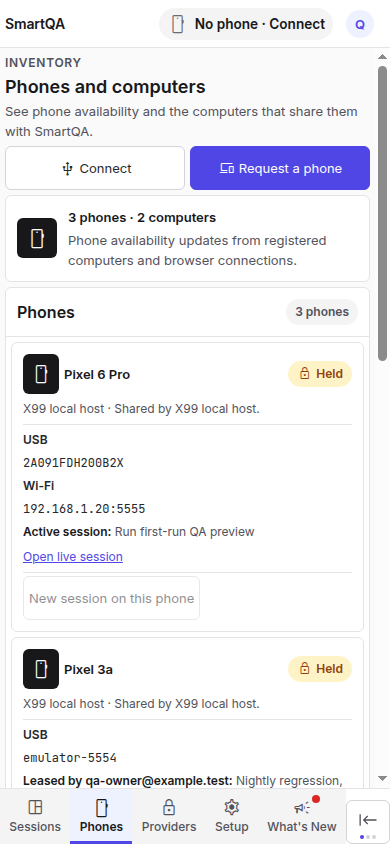
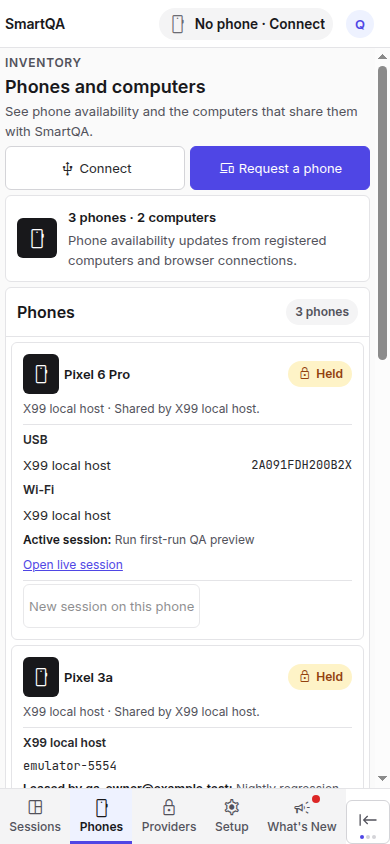
fix(smartqa): report phone connections through the host-agent contract, prefer Ready endpoint (CHE-2377)

Changed region(s): [[0.0308, 0.5237, 0.9231, 0.955], [0.6462, 0.5237, 0.8923, 0.5545]]

diff --git a/apps/showcase_ui/src/app/pages/phones/phones.component.ts b/apps/showcase_ui/src/app/pages/phones/phones.component.ts
@@ -9,7 +9,6 @@ import { SystemService } from '../../services/system.service';
 import { UsbDeviceRelayService } from '../../services/usb-device-relay.service';
 import { WorkspacePhoneService } from '../../services/workspace-phone.service';
 import { deviceChipView } from '../../utils/device-chip.util';
-import { serialShape } from '../../utils/device-label.util';
 
 type PhoneStatus = 'Held' | 'Available' | 'Disconnected' | 'Needs attention';
 
@@ -23,6 +22,9 @@ const key = (device: RegistryDevice) => `${device.computer_id}:${device.serial}`
 
 /** One phone and every way it is connected: the server names them with one device id. */
 interface PhoneGroup { device: RegistryDevice; endpoints: RegistryDevice[]; }
+/** One way a phone is connected; `serial` is set on the first row of a device only. */
+interface PhoneEndpoint { id: string; label: string; via: string | null; serial: string | null; }
+const STATE_RANK = { 'Ready': 0, 'Needs attention': 1, 'Offline': 2 } as const;
 
 @Component({
   selector: 'app-phones',
@@ -95,10 +97,11 @@ interface PhoneGroup { device: RegistryDevice; endpoints: RegistryDevice[]; }
                   <div class="phone-details">
                     <p>{{ v.source }}<span aria-hidden="true"> · </span><span>{{ v.detail }}</span></p>
                     <div class="endpoint-list" aria-label="Phone connections">
-                      @for (endpoint of group.endpoints; track key(endpoint)) {
+                      @for (endpoint of endpointsOf(group); track endpoint.id) {
                         <div class="endpoint">
-                          <strong>{{ endpointLabel(endpoint) }}</strong>
-                          <span class="mono phone-serial">{{ endpoint.serial }}</span>
+                          <strong>{{ endpoint.label }}</strong>
+                          @if (endpoint.via) { <span>{{ endpoint.via }}</span> }
+                          @if (endpoint.serial) { <span class="mono phone-serial">{{ endpoint.serial }}</span> }
                         </div>
                       }
                     </div>
@@ -332,8 +335,9 @@ export class PhonesComponent {
       groups.push(group);
       if (device.device_id) byId.set(device.device_id, group);
     }
-    // Show the connected endpoint: it is the one a session can start on.
-    return groups.map(endpoints => ({ endpoints, device: endpoints.find(e => this.view(e).state !== 'Offline') ?? endpoints[0] }));
+    // Show the best endpoint: Ready beats Needs attention beats Offline; the first of equals wins.
+    const rank = (e: RegistryDevice) => STATE_RANK[this.view(e).state];
+    return groups.map(endpoints => ({ endpoints, device: endpoints.reduce((best, e) => rank(e) < rank(best) ? e : best) }));
   });
   protected readonly availablePhones = computed(() => this.phones().filter(group => !!group.device.device_id && this.statusOf(group) === 'Available'));
   protected readonly selectedLeaseDevice = computed(() => {
@@ -392,9 +396,16 @@ export class PhonesComponent {
     return lease && lease.expires_at * 1000 > this.now() ? lease : null;
   }
 
-  protected endpointLabel(endpoint: RegistryDevice): string {
-    if (endpoint.source === 'browser') return 'Browser connection';
-    return serialShape(endpoint.serial) === 'network' ? 'Wi-Fi' : 'USB';
+  /** What the server reports: a browser, or the connection kinds a computer's agent sent; never guessed from a serial. */
+  protected endpointsOf(group: PhoneGroup): PhoneEndpoint[] {
+    return group.endpoints.flatMap((endpoint): PhoneEndpoint[] => {
+      const id = key(endpoint);
+      if (endpoint.source === 'browser') return [{ id, label: 'Browser connection', via: null, serial: endpoint.serial }];
+      const via = this.view(endpoint).source;
+      const kinds = endpoint.connections ?? [];
+      if (!kinds.length) return [{ id, label: via, via: null, serial: endpoint.serial }];
+      return kinds.map((kind, index) => ({ id: `${id}:${kind}`, label: kind === 'wifi' ? 'Wi-Fi' : 'USB', via, serial: index ? null : endpoint.serial }));
+    });
   }
 
   protected leaseEnd(lease: DeviceLease): string {

diff --git a/apps/showcase_ui/src/app/pages/phones/phones.page.spec.ts b/apps/showcase_ui/src/app/pages/phones/phones.page.spec.ts
@@ -216,16 +216,41 @@ describe('Phones page (Sessions v2.1 C rev-4)', () => {
     expect(rows(root)[0].querySelector('.lease-details')).toBeNull();
   });
 
-  it('groups the USB and Wi-Fi endpoints of one phone into one card (CHE-2377)', async () => {
-    const usb = device({ serial: 'R58M1234a1b2', model: 'Pixel 7', device_id: 'dev_pixel7' });
-    const wifi = device({ serial: '192.168.1.20:5555', model: 'Pixel 7', device_id: 'dev_pixel7' });
-    const { root } = await create([usb, wifi, idle]);
+  const endpointRows = (card: Element) =>
+    Array.from(card.querySelectorAll('.endpoint')).map(e => e.querySelector('strong')!.textContent);
+
+  it('shows the USB and Wi-Fi connections a computer reports for one phone as one card (CHE-2377)', async () => {
+    const both = device({ serial: 'sd-0000000000000007', model: 'Pixel 7', device_id: 'dev_pixel7', connections: ['usb', 'wifi'] });
+    const { root } = await create([both, idle]);
     expect(rows(root).length).toBe(2);
     expect(root.querySelector('.inventory-summary strong')?.textContent).toContain('2 phones');
-    const pixel7 = rows(root)[0];
-    expect(Array.from(pixel7.querySelectorAll('.endpoint')).map(e => [e.querySelector('strong')!.textContent, e.querySelector('.phone-serial')!.textContent]))
-      .toEqual([['USB', 'R58M1234a1b2'], ['Wi-Fi', '192.168.1.20:5555']]);
+    expect(endpointRows(rows(root)[0])).toEqual(['USB', 'Wi-Fi']);
     expect(Array.from(root.querySelector<HTMLSelectElement>('#phone-choice')!.options).filter(o => o.textContent?.includes('Pixel 7')).length).toBe(1);
+  });
+
+  it('groups a computer connection and a browser connection of one phone into one card (CHE-2377)', async () => {
+    const onComputer = device({ model: 'Pixel 7', device_id: 'dev_pixel7', connections: ['wifi'] });
+    const inBrowser = device({ serial: '127.0.0.1:41001', model: 'Pixel 7', source: 'browser', owner: 'qa@example.test', computer_id: null, computer_name: null, device_id: 'dev_pixel7' });
+    const { root } = await create([onComputer, inBrowser]);
+    expect(rows(root).length).toBe(1);
+    expect(endpointRows(rows(root)[0])).toEqual(['Wi-Fi', 'Browser connection']);
+  });
+
+  it('does not guess a connection kind from a serial (CHE-2377)', async () => {
+    const { root } = await create([device({ serial: '192.168.1.20:5555', device_id: 'dev_pixel7' })]);
+    expect(endpointRows(rows(root)[0])).toEqual(['Lab Mac']);
+  });
+
+  [false, true].forEach(readyFirst => {
+    it(`prefers the Ready connection over one that needs an update, ${readyFirst ? 'Ready' : 'update'} first (CHE-2377)`, async () => {
+      const stale = device({ serial: 'old-host', device_id: 'dev_pixel7', computer_id: 'c3', computer_name: 'Old PC', computer_status: 'update_required' });
+      const ready = device({ serial: 'ready-host', device_id: 'dev_pixel7' });
+      const { fixture, fakes, root } = await create(readyFirst ? [ready, stale] : [stale, ready]);
+      expect(chipText(rows(root)[0].querySelector('.phone-card-main .status'))).toBe('Available');
+      rows(root)[0].querySelector<HTMLButtonElement>('.phone-actions button')!.click();
+      fixture.detectChanges();
+      expect(fakes.system.chooseRunTarget).toHaveBeenCalledOnceWith('ready-host');
+    });
   });
 
   it('keeps phones without a device id apart, one card each (CHE-2377)', async () => {

diff --git a/apps/showcase_ui/src/app/core/models/host.model.ts b/apps/showcase_ui/src/app/core/models/host.model.ts
@@ -33,6 +33,8 @@ export interface RegistryDevice {
   device_id?: string | null;
   /** The live lease on this phone, whoever holds it; null or absent when free or leases are off. */
   lease?: DeviceLease | null;
+  /** Live connection kinds a computer's agent reports for this phone; never an address. */
+  connections?: ('usb' | 'wifi')[];
   model: string | null;
   product?: string | null;
   /** Classified from adb properties; absent when the computer's agent did not report it. */

diff --git a/apps/admin_console/services/host_registry.py b/apps/admin_console/services/host_registry.py
@@ -50,6 +50,7 @@ SHARE_COMMAND = "smartqa-host share <serial>"
 DEVICE_ID = re.compile(r"^sd-[0-9a-f]{16}$")
 _DEVICE_KINDS = {"physical", "emulator"}
 _DEVICE_STATES = {"device", "offline", "unauthorized", "no"}
+_CONNECTIONS = ("usb", "wifi")  # the only transport facts the agent may report; never an address
 _DEVICE_ATTENTION = {
     "offline",
     "unauthorized",
@@ -170,6 +171,11 @@ def _clean(value: object, limit: int, default: str = "") -> str:
     return text or default
 
 
+def _reported(item: dict) -> list:
+    value = item.get("connections")
+    return value if isinstance(value, list) else []
+
+
 class HostRegistry:
     def __init__(self) -> None:
         self.db_path = None  # None = the shared Artemis database
@@ -188,7 +194,7 @@ class HostRegistry:
             if key not in self._schema_ready:
                 conn.executescript(_SCHEMA)
                 columns = {row[1] for row in conn.execute("PRAGMA table_info(host_devices)")}
-                for column in ("kind", "state", "attention"):  # B3a-2, additive
+                for column in ("kind", "state", "attention", "connections"):  # additive
                     if column not in columns:
                         conn.execute(f"ALTER TABLE host_devices ADD COLUMN {column} TEXT")
                 # Rows from before B3a-2 hold raw adb serials: drop them; the agent re-registers.
@@ -513,6 +519,7 @@ class HostRegistry:
                         item.get("attention")
                         if item.get("attention") in _DEVICE_ATTENTION
                         else None,
+                        ",".join(name for name in _CONNECTIONS if name in _reported(item)),
                     )
                 )
         with self._db() as conn:
@@ -526,7 +533,7 @@ class HostRegistry:
             conn.execute("DELETE FROM host_devices WHERE host_id=?", (host_id,))
             conn.executemany(
                 "INSERT OR REPLACE INTO host_devices (host_id, serial, model, shared, updated_at,"
-                " kind, state, attention) VALUES (?,?,?,?,?,?,?,?)",
+                " kind, state, attention, connections) VALUES (?,?,?,?,?,?,?,?,?)",
                 rows[:MAX_DEVICES_PER_HOST],
             )
         from apps.admin_console.services.device_identity import device_identity
@@ -637,6 +644,7 @@ class HostRegistry:
                     "since": host["since"],
                     "attention": "also_visible" if d["also_visible_on"] else None,
                     "also_visible_on": d["also_visible_on"],
+                    "connections": [c for c in (d["connections"] or "").split(",") if c],
                 }
                 for d in mine
                 if d["shared"]

diff --git a/tests/unit/admin_console/test_host_agent_api.py b/tests/unit/admin_console/test_host_agent_api.py
@@ -680,9 +680,37 @@ def test_devices_report_counts_shared_and_unshared_phones(admin):
                 "also_visible_on": [],
                 "device_id": shared[0]["device_id"],
                 "lease": None,
+                "connections": [],
             }
         ]
         assert shared[0]["device_id"].startswith("dev_")  # the id the lease API takes (CHE-2100)
+    finally:
+        context.__exit__(None, None, None)
+
+
+def test_a_phone_lists_its_usb_and_wifi_connections_and_nothing_else(admin):
+    """CHE-2377: the Phones page groups a phone's endpoints from what the agent reports."""
+    key, host_id = _enrolled(admin)
+    context, ws, _reply = _handshake(admin, key, host_id)
+    try:
+        ws.send_json(
+            {
+                "type": "devices",
+                "devices": [
+                    {
+                        "serial": "sd-00000000000000a1",
+                        "shared": True,
+                        "connections": ["wifi", "usb", "usb", "192.168.1.5:5555", 7],
+                    },
+                    {"serial": "sd-00000000000000a2", "shared": True},
+                ],
+            }
+        )
+        ws.send_json({"type": "ping"})
+        assert ws.receive_json()["type"] == "pong"
+        phones = {d["serial"]: d for d in admin.get("/api/hosts").json()["devices"]}
+        assert phones["sd-00000000000000a1"]["connections"] == ["usb", "wifi"]
+        assert phones["sd-00000000000000a2"]["connections"] == []
     finally:
         context.__exit__(None, None, None)
 

diff --git a/host-agent/devices.go b/host-agent/devices.go
@@ -14,20 +14,21 @@ import (
 )
 
 type device struct {
-	ID        string         `json:"id,omitempty"`
-	Serial    string         `json:"serial"`
-	State     string         `json:"state"`
-	Model     string         `json:"model,omitempty"`
-	Transport string         `json:"transport_id,omitempty"`
-	Kind      string         `json:"kind,omitempty"`
-	HWID      string         `json:"hw_id,omitempty"`
-	Label     string         `json:"label,omitempty"`
-	Identity  string         `json:"identity,omitempty"`
-	Attention string         `json:"attention,omitempty"`
-	Shared    bool           `json:"shared"`
-	Auto      bool           `json:"auto_shared,omitempty"`
-	Props     transportProps `json:"-"`
-	serials   []string
+	ID          string         `json:"id,omitempty"`
+	Serial      string         `json:"serial"`
+	State       string         `json:"state"`
+	Model       string         `json:"model,omitempty"`
+	Transport   string         `json:"transport_id,omitempty"`
+	Kind        string         `json:"kind,omitempty"`
+	HWID        string         `json:"hw_id,omitempty"`
+	Label       string         `json:"label,omitempty"`
+	Identity    string         `json:"identity,omitempty"`
+	Attention   string         `json:"attention,omitempty"`
+	Shared      bool           `json:"shared"`
+	Auto        bool           `json:"auto_shared,omitempty"`
+	Props       transportProps `json:"-"`
+	serials     []string
+	connections []string
 }
 
 func allowedADB(arguments []string) bool {

diff --git a/host-agent/identity_test.go b/host-agent/identity_test.go
@@ -138,6 +138,27 @@ func TestIdentityResolverFixtures(test *testing.T) {
 			test.Fatalf("USB not canonical: %+v", entry)
 		}
 	})
+	test.Run("a phone reports each live connection kind, never a serial", func(test *testing.T) {
+		devices, _ := testRegistry(test, "")
+		devices.replace([]device{usbPhone("192.168.1.5:5555", "2", "R5CT1234ABC"), usbPhone("R5CT1234ABC", "1", "R5CT1234ABC")})
+		if got := strings.Join(onlyDevice(test, devices).connections, ","); got != "usb,wifi" {
+			test.Fatalf("both connections: %q", got)
+		}
+		devices.replace([]device{usbPhone("192.168.1.5:5555", "2", "R5CT1234ABC")})
+		if got := strings.Join(onlyDevice(test, devices).connections, ","); got != "wifi" {
+			test.Fatalf("wireless only: %q", got)
+		}
+		offline := usbPhone("R5CT1234ABC", "1", "R5CT1234ABC")
+		offline.State = "offline"
+		devices.replace([]device{usbPhone("192.168.1.5:5555", "2", "R5CT1234ABC"), offline})
+		if got := strings.Join(onlyDevice(test, devices).connections, ","); got != "wifi" {
+			test.Fatalf("offline USB listed: %q", got)
+		}
+		devices.replace([]device{runningAVD("emulator-5554", "3", "Pixel_A")})
+		if got := onlyDevice(test, devices).connections; len(got) != 0 {
+			test.Fatalf("emulator has no USB or Wi-Fi: %v", got)
+		}
+	})
 	test.Run("emulator-5554 reused by another AVD gets another id and no share", func(test *testing.T) {
 		devices, _ := testRegistry(test, "")
 		devices.replace([]device{runningAVD("emulator-5554", "3", "Pixel_A")})

diff --git a/host-agent/registry.go b/host-agent/registry.go
@@ -95,6 +95,29 @@ func ambiguousGroup(kind string, members []device) bool {
 	return wired > 1
 }
 
+// liveConnections names the kinds of live adb connection a physical phone has: "usb", "wifi".
+// It is the only thing the server learns about transports; never a serial or address.
+func liveConnections(kind string, members []device) []string {
+	kinds := []string{}
+	if kind != "physical" {
+		return kinds
+	}
+	for _, member := range members {
+		if member.State != "device" {
+			continue
+		}
+		name := "usb"
+		if wirelessSerial(member.Serial) {
+			name = "wifi"
+		}
+		if !slices.Contains(kinds, name) {
+			kinds = append(kinds, name)
+		}
+	}
+	slices.Sort(kinds)
+	return kinds
+}
+
 func preferUSB(members []device) {
 	sort.Slice(members, func(first, second int) bool {
 		a, b := members[first], members[second]
@@ -167,6 +190,7 @@ func (registry *registry) resolve() {
 		for _, member := range members {
 			entry.serials = append(entry.serials, member.Serial)
 		}
+		entry.connections = liveConnections(kinds[hwID], members)
 		entry.Label = entry.Model
 		if entry.Kind == "emulator" {
 			entry.Label = entry.Props.AVD

diff --git a/host-agent/host_control.go b/host-agent/host_control.go
@@ -60,6 +60,8 @@ type serverDevice struct {
 	HardwareID string `json:"hardware_id,omitempty"`
 	// PreviousIDs are the weak ids this phone had before it was authorized.
 	PreviousIDs []string `json:"previous_ids,omitempty"`
+	// Connections are the live connection kinds, "usb" and "wifi"; never an address.
+	Connections []string `json:"connections,omitempty"`
 }
 
 func controlPath(path string) string { return filepath.Join(filepath.Dir(path), "control.sock") }
@@ -197,7 +199,7 @@ func (link *hostLink) publish(ctx context.Context) error {
 		if entry.Shared && entry.State == "device" {
 			shares[entry.ID] = true
 		}
-		view = append(view, serverDevice{entry.ID, entry.State, entry.Model, entry.Kind, entry.Shared, entry.Auto, entry.Attention, hardwareID(link.devices.pepper, entry), previousIDs(link.devices.pepper, entry)})
+		view = append(view, serverDevice{entry.ID, entry.State, entry.Model, entry.Kind, entry.Shared, entry.Auto, entry.Attention, hardwareID(link.devices.pepper, entry), previousIDs(link.devices.pepper, entry), entry.connections})
 	}
 	for serial := range link.shared {
 		if !shares[serial] {

diff --git a/docs/device-identity.md b/docs/device-identity.md
@@ -39,7 +39,10 @@ The host agent sends the hash as `hardware_id` (64 lowercase hex) on each
 trusted phone in its `devices` message; an agent that sends none is an old host
 agent. With it, the agent sends `previous_ids`: the opaque ids the phone's
 transports had before its identity was read, so the server re-keys that
-connection after authorization instead of creating a second device. A server
+connection after authorization instead of creating a second device.
+The agent also sends `connections` (CHE-2377): the live connection kinds of a
+physical phone, `usb` and `wifi`. The server keeps only those two words, never an
+address or serial, and the Phones page lists one row per kind. A server
 adb connection stores only a keyed hash of its transport serial and its adb
 server, never the serial itself. An AVD seen through a host agent is keyed by
 its opaque id, which the agent derives from the AVD name; a server AVD is keyed
